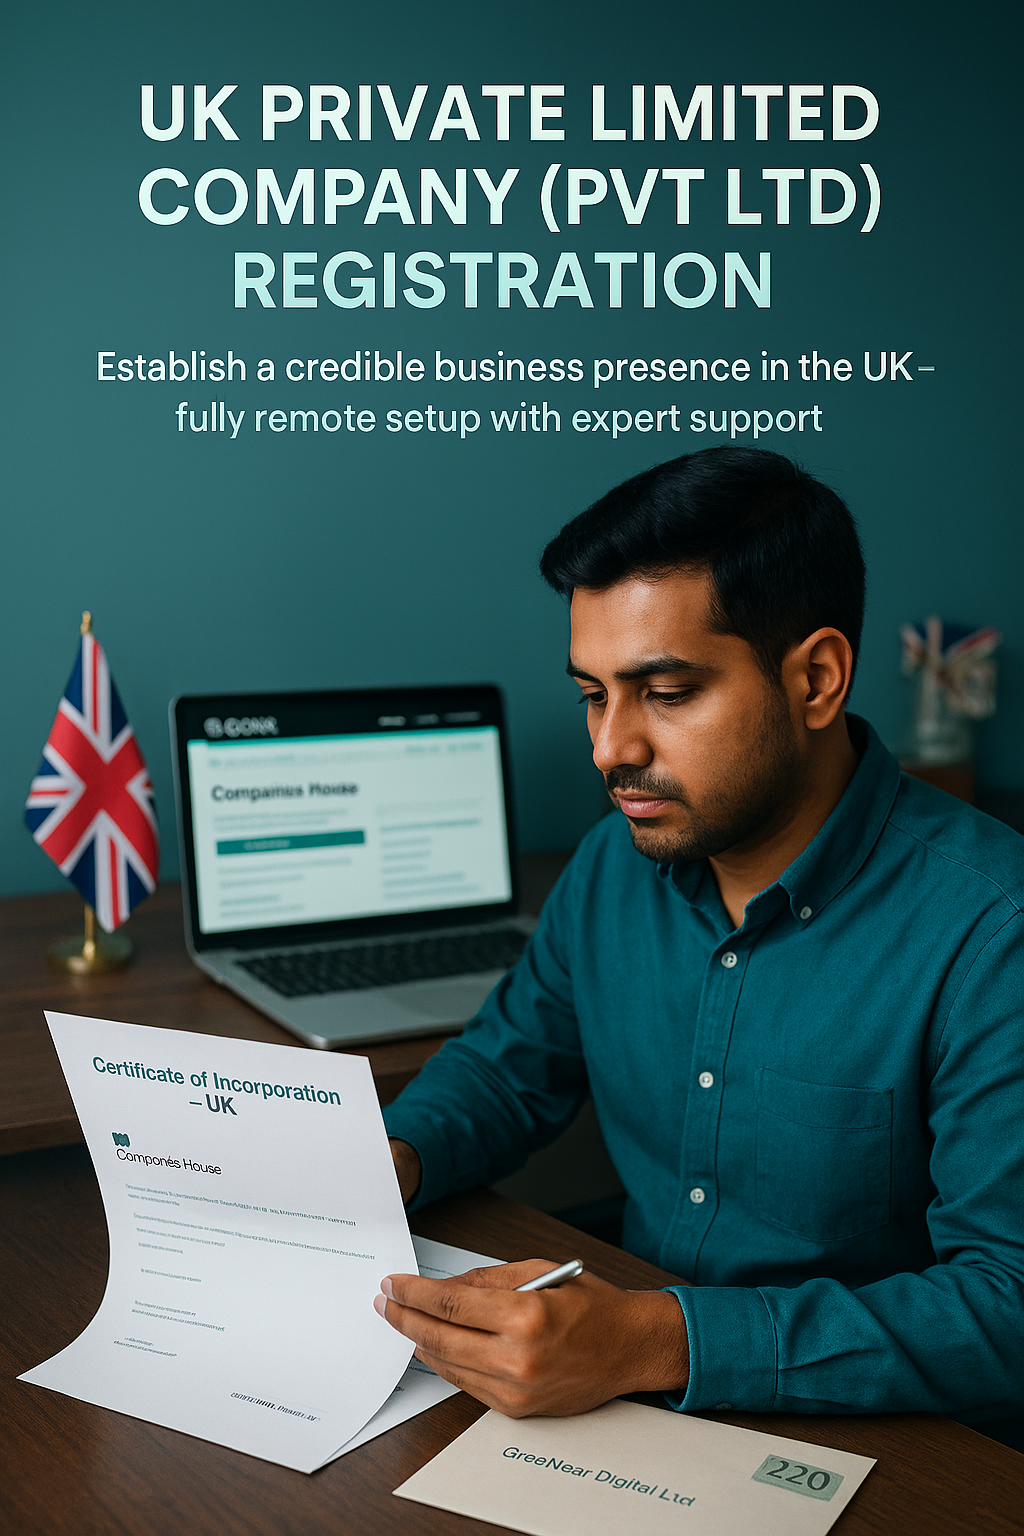
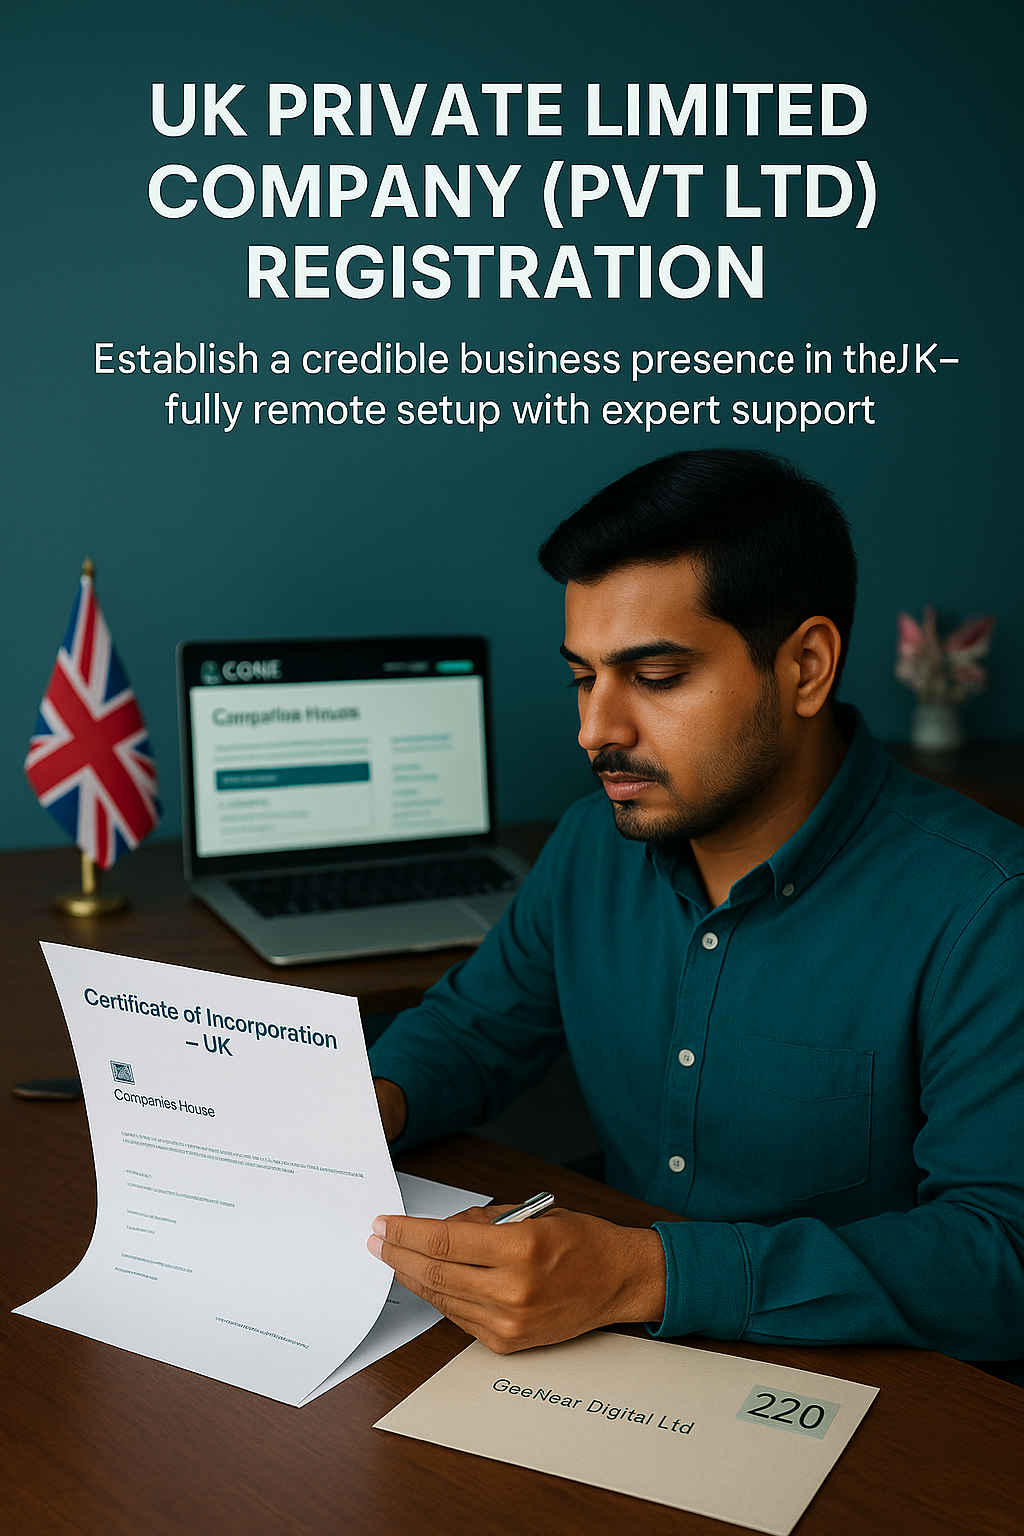
Feat : image update

diff --git a/app/page.tsx b/app/page.tsx
@@ -342,12 +342,12 @@ export default function LandingPage() {
                 </div>
               </div>
               <div className="flex items-center justify-center animate-in slide-in-from-right duration-700">
-                <div className="relative w-full h-[300px] md:h-[400px] lg:h-[500px]">
+                <div className="relative w-full h-[300px] lg:h-[500px]">
                   <Image
-                    src="/images/hero.webp"
+                    src="/images/taxconsultant.png"
                     alt="Tax Consultation Services"
                     fill
-                    className="drop-shadow-2xl w-full h-full"
+                    className="drop-shadow-2xl w-full h-auto object-contain"
                     priority
                   />
                 </div>
@@ -515,11 +515,11 @@ export default function LandingPage() {
                 <div className="grid md:grid-cols-2 gap-6">
                   <div className="rounded-lg overflow-hidden">
                     <Image
-                      src="/images/individual.webp"
+                      src="/images/incometax.png"
                       alt="Individual Tax Services"
                       width={600}
-                      height={400}
-                      className="w-full h-auto object-cover"
+                      height={500}
+                      className="w-full max-h-[500px] object-cover bg-[#58686f]"
                     />
                   </div>
                   <div className="flex flex-col justify-center space-y-4">
@@ -618,8 +618,8 @@ export default function LandingPage() {
                       src="/images/saletax.png"
                       alt="Business Tax Services"
                       width={600}
-                      height={400}
-                      className="w-full object-cover"
+                      height={500}
+                      className="w-full max-h-[500px] object-contain bg-[#58686f]"
                     />
                   </div>
                   <div className="flex flex-col justify-start space-y-4">
@@ -701,8 +701,8 @@ export default function LandingPage() {
                       src="/images/companyregister.png"
                       alt="International Tax Services"
                       width={600}
-                      height={400}
-                      className="w-full object-cover"
+                      height={500}
+                      className="w-full max-h-[500px] object-contain bg-[#58686f]"
                     />
                   </div>
                   <div className="flex flex-col justify-start space-y-4">
@@ -783,8 +783,8 @@ export default function LandingPage() {
                       src="/images/intellectual.png"
                       alt="Tax Planning Services"
                       width={600}
-                      height={400}
-                      className="w-full h-auto object-cover"
+                      height={500}
+                      className="w-full max-h-[500px] object-contain bg-[#58686f]"
                     />
                   </div>
                   <div className="flex flex-col justify-start space-y-4">
@@ -898,8 +898,8 @@ export default function LandingPage() {
                       src="/images/USA.png"
                       alt="Tax Compliance Services"
                       width={600}
-                      height={400}
-                      className="w-full h-auto object-cover"
+                      height={500}
+                      className="w-full max-h-[500px] object-contain bg-[#58686f]"
                     />
                   </div>
                   <div className="flex flex-col justify-start space-y-4">
@@ -980,11 +980,11 @@ export default function LandingPage() {
                       src="/images/UK.png"
                       alt="Tax Advisory Services"
                       width={600}
-                      height={400}
-                      className="w-full h-auto object-cover"
+                      height={500}
+                      className="w-full max-h-[500px] object-contain bg-[#58686f]"
                     />
                   </div>
-                  <div className="flex flex-col justify-center space-y-4">
+                  <div className="flex flex-col justify-start space-y-4">
                     <h3 className="text-2xl font-bold text-[#2b3842] bg-center">
                       UK PVT LTD
                     </h3>
@@ -1064,7 +1064,7 @@ export default function LandingPage() {
         </section>
 
         {/* Case Studies Section */}
-        <section
+        {/* <section
           id="case-studies"
           className="w-full py-12 md:py-24 lg:py-32 bg-gradient-to-b from-[#f8fafa] to-white"
         >
@@ -1139,7 +1139,7 @@ export default function LandingPage() {
               ))}
             </div>
           </div>
-        </section>
+        </section> */}
 
         {/* Testimonials Section */}
         <section

diff --git a/components/ui/tabs.tsx b/components/ui/tabs.tsx
@@ -14,7 +14,7 @@ const TabsList = React.forwardRef<
   <TabsPrimitive.List
     ref={ref}
     className={cn(
-      "inline-flex h-10 items-center justify-center rounded-md bg-muted p-1 text-muted-foreground",
+      "flex items-center justify-center rounded-md bg-muted p-1 text-muted-foreground",
       className
     )}
     {...props}
